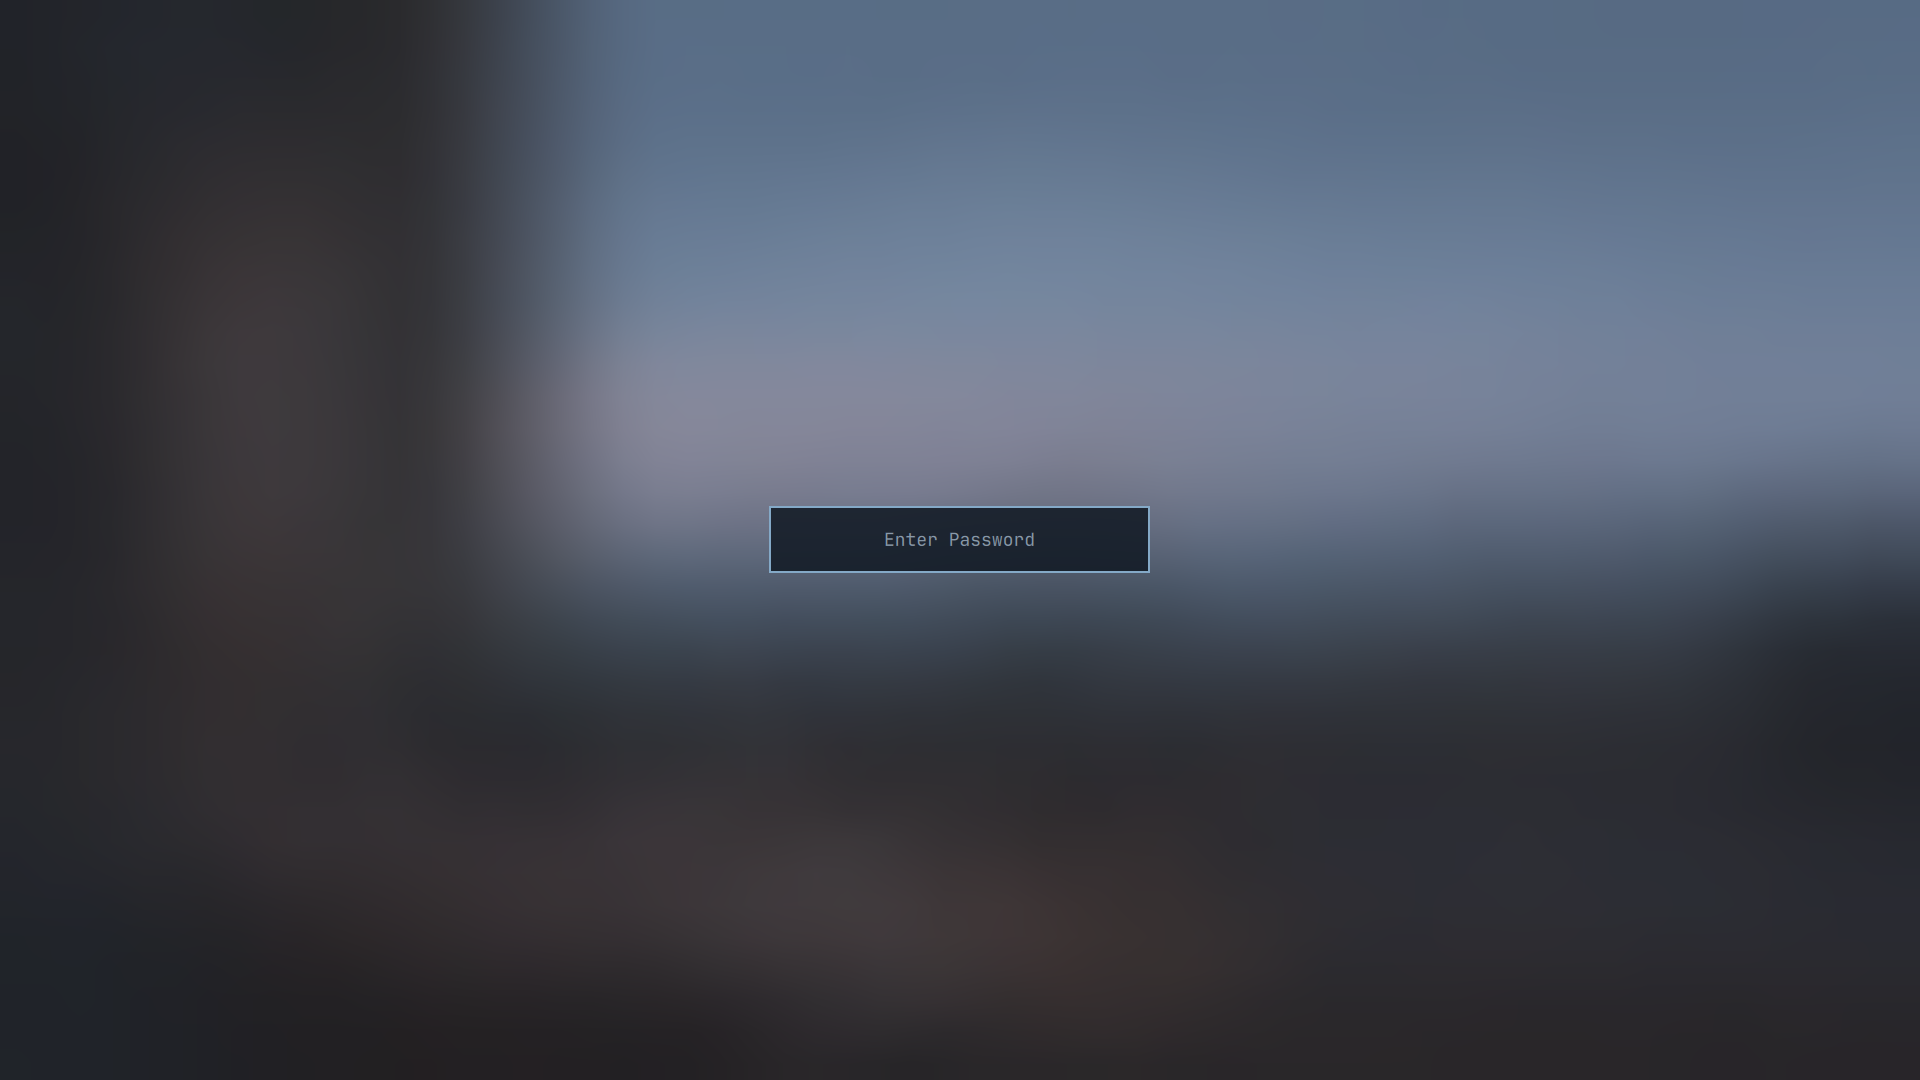
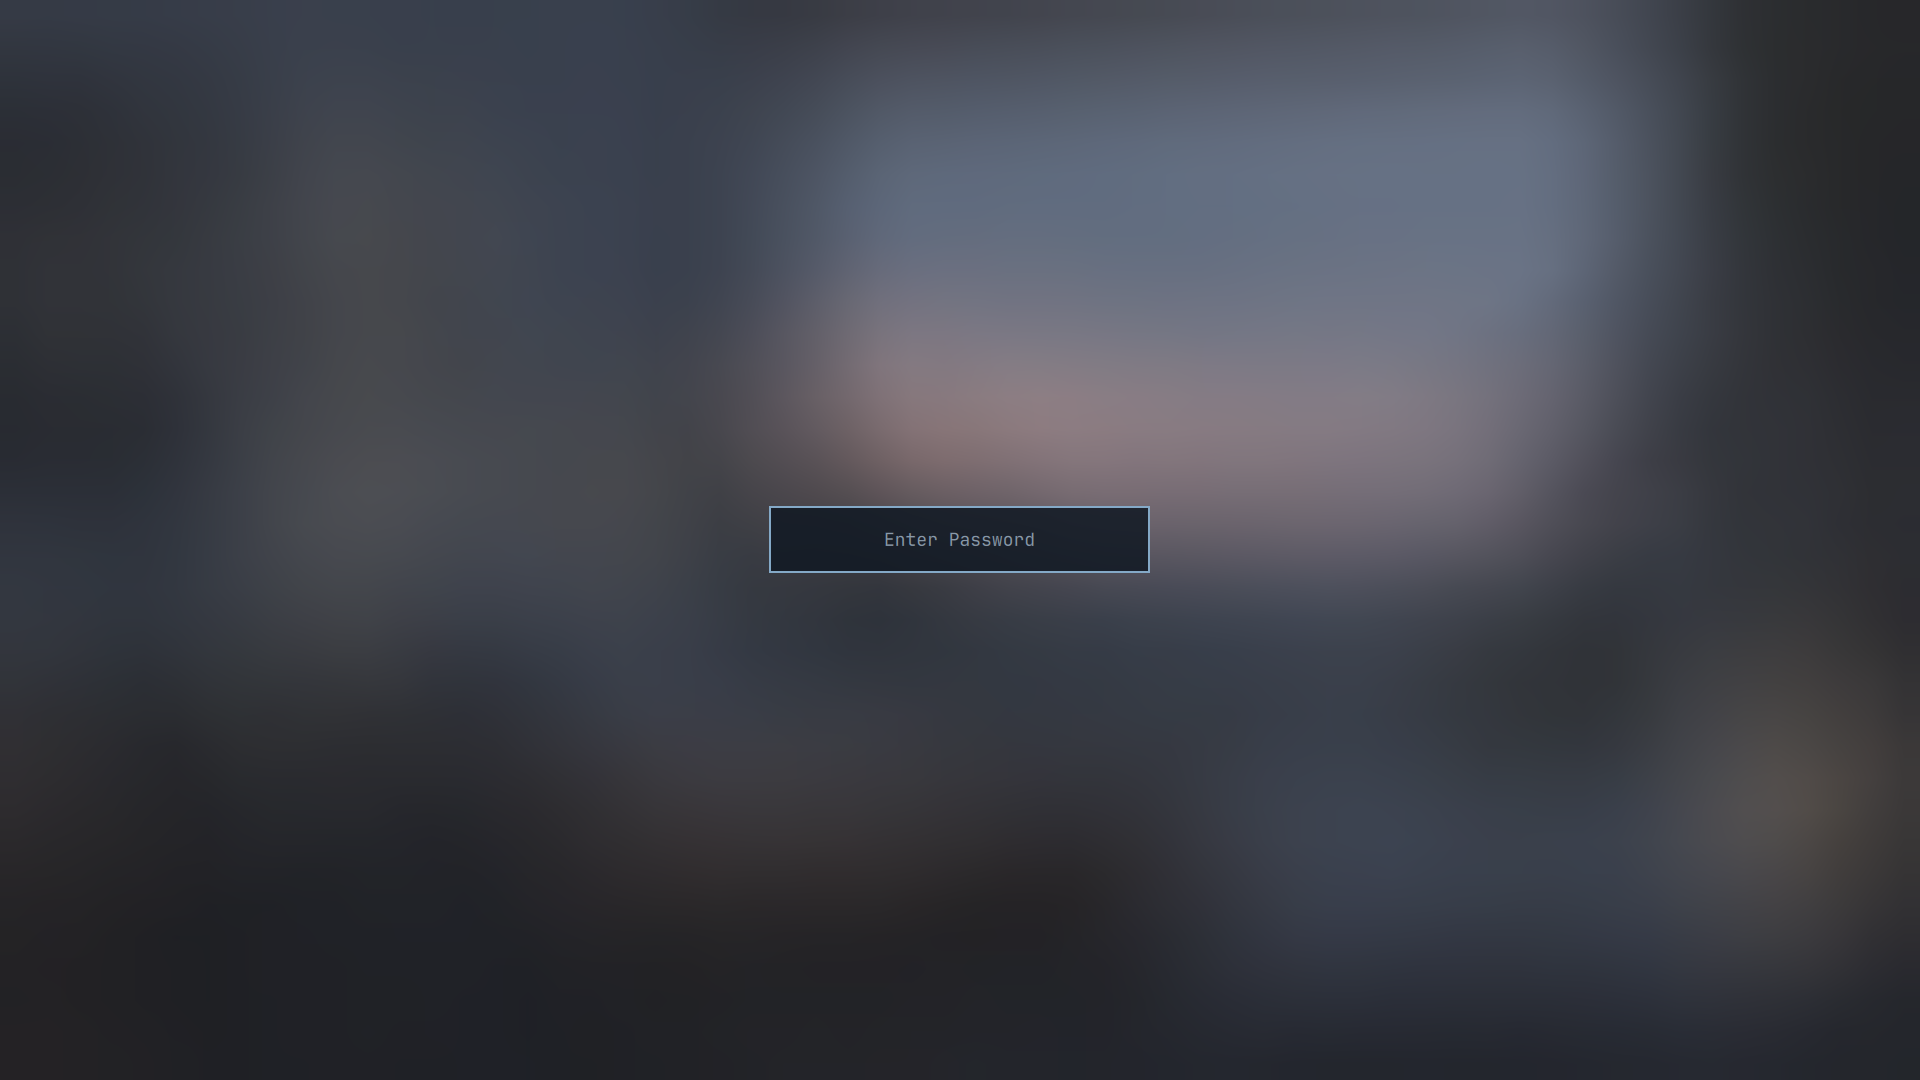
Polish dark project page and real previews

diff --git a/scripts/validate-theme.py b/scripts/validate-theme.py
@@ -18,7 +18,7 @@ REQUIRED_FILES = {
     "zed.json", "cava_theme", "fzf.fish", "steam.css", "vencord.theme.css",
     "bat.conf", "lazygit.yml", "fastfetch.jsonc", "yazi-theme.toml",
     "delta.gitconfig", "INTEGRATIONS.md", "CONTRIBUTING.md", "CHANGELOG.md",
-    "LICENSE", "ATTRIBUTIONS.md", "unlock.png",
+    "LICENSE", "ATTRIBUTIONS.md", "unlock.png", "README.md", "docs/DESIGN.md",
 }
 REQUIRED_SHELL_SECTIONS = {
     "bar", "controls", "spacing", "font", "popups", "tooltip",

diff --git a/README.md b/README.md
@@ -1,63 +1,110 @@
-# Omarchy Ankh Dark
+<p align="center">
+  <img src="unlock.png" width="190" alt="Ankh emblem">
+</p>
 
-Companheiro noturno do [Omarchy Ankh](https://github.com/PedroAugustoOK/omarchy-ankh-theme).
-Azul-marinho profundo, texto marfim frio e azul ardósia criam uma sessão de
-foco serena; os três wallpapers fornecidos preservam a mesma identidade Ankh.
+<h1 align="center">Omarchy Ankh Dark</h1>
 
-![Desktop Ankh Dark — captura real do Omarchy](preview.png)
+<p align="center">
+  A calm, high-contrast dark theme for <strong>Omarchy v4</strong>.<br>
+  Deep navy, cool ivory, restrained slate blue, and three supplied wallpapers.
+</p>
 
-![Lockscreen Ankh Dark — captura real do Omarchy](preview-unlock.png)
+<p align="center">
+  <a href="https://github.com/PedroAugustoOK/omarchy-ankh-dark-theme/releases/tag/v1.0.0"><img src="https://img.shields.io/github/v/release/PedroAugustoOK/omarchy-ankh-dark-theme?display_name=tag&style=flat-square" alt="Latest release"></a>
+  <a href="https://github.com/PedroAugustoOK/omarchy-ankh-dark-theme/actions/workflows/validate.yml"><img src="https://github.com/PedroAugustoOK/omarchy-ankh-dark-theme/actions/workflows/validate.yml/badge.svg" alt="Validation status"></a>
+  <a href="LICENSE"><img src="https://img.shields.io/github/license/PedroAugustoOK/omarchy-ankh-dark-theme?style=flat-square" alt="MIT license"></a>
+</p>
 
-## Instalação
+<p align="center">
+  <a href="#install">Install</a> ·
+  <a href="#gallery">Gallery</a> ·
+  <a href="#whats-included">Included</a> ·
+  <a href="INTEGRATIONS.md">Integrations</a> ·
+  <a href="CONTRIBUTING.md">Contribute</a>
+</p>
 
-```bash
+![Omarchy Ankh Dark desktop — real Quickshell menu capture](preview.png)
+
+## A considered dark theme
+
+Ankh Dark is the nocturnal companion to Ankh: deep blue-charcoal surfaces,
+cool-ivory type, and slate-blue focus states. It is built around supplied
+night-study wallpapers, not around generated artwork.
+
+- **Readable by default** — 7:1 minimum contrast for primary text, 4.5:1 for accent and muted text.
+- **A complete shell** — bar, launcher, menus, notifications, polkit, image picker, and lock screen share one surface language.
+- **Safe to install** — works with Omarchy's Git-installed-theme model without shipping executable configuration.
+
+## Install
+
+~~~bash
 omarchy theme install https://github.com/PedroAugustoOK/omarchy-ankh-dark-theme
 omarchy theme set ankh-dark
-```
+~~~
 
-Alterne entre os três wallpapers com `omarchy theme bg next`.
+Cycle the three included wallpapers with <code>omarchy theme bg next</code>.
 
-## O que está incluído
+> Prefer daylight? See [Omarchy Ankh](https://github.com/PedroAugustoOK/omarchy-ankh-theme).
 
-- Paleta `colors.toml` com contraste mínimo de 7:1 para texto principal.
-- `shell.toml` completo para barra, controles, menus, launcher, notificações,
-  polkit, lockscreen e seletor de imagens do Quickshell.
-- Ícones `Yaru-blue`, que conectam visualmente as duas variantes.
-- Integrações com GTK, Walker, Waybar, Mako, SwayOSD, Superfile, Zed, btop,
-  Chromium, Cava, fzf, Steam e Vencord.
-- Complementos opcionais para bat, Lazygit, Fastfetch, Yazi e git-delta em
-  [INTEGRATIONS.md](INTEGRATIONS.md).
+## Gallery
 
-O Omarchy gera automaticamente terminal, Neovim, Helix, VS Code e Obsidian a
-partir de `colors.toml`. Os arquivos opcionais não são copiados sobre suas
-preferências existentes.
+<table>
+  <tr>
+    <td width="50%">
+      <img src="preview.png" alt="Ankh Dark desktop with the Omarchy menu">
+      <sub><strong>Desktop</strong> — real Quickshell menu capture.</sub>
+    </td>
+    <td width="50%">
+      <img src="preview-unlock.png" alt="Ankh Dark lock screen with visible password field">
+      <sub><strong>Lock screen</strong> — actual Omarchy lock preview.</sub>
+    </td>
+  </tr>
+</table>
+
+All previews are real captures from this theme on Omarchy v4. They are never AI
+mockups. The desktop image shows the included Ankh Dark workspace; the lock
+screen shows the password field in its standard position.
+
+## What's included
+
+| Surface | Coverage |
+| --- | --- |
+| **Omarchy** | colors.toml, Quickshell shell.toml, Yaru Blue icons, three 3840×2160 wallpapers |
+| **Desktop** | GTK, Walker, Waybar, Mako, SwayOSD, Superfile, Zed, Chromium |
+| **Terminal & media** | btop, Cava, fzf, Steam, Vencord |
+| **Optional companions** | bat, Lazygit, Fastfetch, Yazi, git-delta — see [INTEGRATIONS.md](INTEGRATIONS.md) |
+
+Omarchy automatically derives terminal, Neovim, Helix, VS Code, and Obsidian
+from colors.toml. Optional companion files are documented separately so they
+never overwrite a person's existing configuration.
 
 ## Wallpapers
 
-Há exatamente três imagens PNG em 3840×2160 (16:9):
+Exactly three PNG wallpapers are included, each at **3840×2160**:
 
-- `01-ankh-study.png` — mesa junto à janela, luz quente e vegetação.
-- `02-ankh-meadow.png` — estudo aberto para campo e vila distante.
-- `03-ankh-window.png` — mesa clara, caderno e laptop junto à janela.
+| File | Scene |
+| --- | --- |
+| 01-ankh-study.png | Desk by a window, warm light, and greenery |
+| 02-ankh-meadow.png | Study opening toward a meadow and distant village |
+| 03-ankh-window.png | Bright desk, notebook, and laptop by the window |
 
-## Desenvolvimento
+Their origin and processing notes live in [ATTRIBUTIONS.md](ATTRIBUTIONS.md).
 
-Valide localmente com:
+## Project quality
 
-```bash
+~~~bash
 python3 scripts/validate-theme.py
-```
+~~~
 
-O teste verifica paleta, contraste, formatos TOML/JSON, referências de cores,
-assets obrigatórios, previews reais e as três imagens em alta resolução.
-Leia [CONTRIBUTING.md](CONTRIBUTING.md) antes de alterar assets e consulte
-[CHANGELOG.md](CHANGELOG.md) para as versões.
+The same validation runs in GitHub Actions. It checks palette semantics,
+contrast, TOML/JSON parsing, color references, required assets, real preview
+dimensions, and the three exact wallpaper dimensions.
 
-Notas de origem dos assets: [ATTRIBUTIONS.md](ATTRIBUTIONS.md).
+- [Design principles](docs/DESIGN.md)
+- [Integration guide](INTEGRATIONS.md)
+- [Contribution guide](CONTRIBUTING.md)
+- [Changelog](CHANGELOG.md)
 
-Para a variante clara, veja
-[Omarchy Ankh](https://github.com/PedroAugustoOK/omarchy-ankh-theme).
-
-## Licença
+## License
 
 [MIT](LICENSE).

diff --git a/docs/DESIGN.md b/docs/DESIGN.md
@@ -1,0 +1,35 @@
+# Ankh Dark design principles
+
+## Intent
+
+Ankh Dark is a nocturnal focus environment. It pairs deep blue-charcoal
+surfaces with cool ivory type and calm slate-blue interaction states, while
+keeping warm semantic colors restrained.
+
+## Surface hierarchy
+
+| Layer | Role |
+| --- | --- |
+| Background | Deep blue-charcoal canvas for calm, low-glare work |
+| Surface | Navy panels for menus, tooltips, and application chrome |
+| Focus | Slate-blue borders and selected states, never bright neon |
+| Text | Cool ivory for comfortable long reading |
+| Signals | Restrained sage, rose, ochre, cyan, and violet semantic colors |
+
+## Light and dark are companions
+
+Ankh and Ankh Dark use the same geometry, icons, semantic color roles, and
+lockscreen treatment. Light is open and editorial; Dark is nocturnal and
+contained. They should feel like the same system at different hours.
+
+## Real imagery only
+
+The theme has exactly three supplied wallpapers. Previews must be captured from
+a running Omarchy session and must show actual UI states. Do not replace them
+with generated scenes or UI mockups.
+
+## Accessibility contract
+
+Primary text must retain at least 7:1 contrast against its background. Accent
+and muted text must retain at least 4.5:1. This is enforced by the validation
+script before publication.

diff --git a/CHANGELOG.md b/CHANGELOG.md
@@ -1,5 +1,13 @@
 # Changelog
 
+## 1.0.1 — 2026-09-17
+
+- Reorganiza a página do projeto com hero, instalação rápida, galeria, mapa de
+  integrações e links de manutenção.
+- Substitui as prévias por capturas reais e demonstrativas do menu Quickshell e
+  da tela de bloqueio do Omarchy v4.
+- Adiciona princípios de design e modelos para bugs, ideias e pull requests.
+
 ## 1.0.0 — 2026-09-17
 
 - Consolida a identidade Ankh Dark: azul-marinho profundo, marfim frio e três

diff --git a/.github/PULL_REQUEST_TEMPLATE.md b/.github/PULL_REQUEST_TEMPLATE.md
@@ -1,0 +1,11 @@
+## Summary
+
+Describe the visual or integration change in one or two sentences.
+
+## Checklist
+
+- [ ] I ran <code>python3 scripts/validate-theme.py</code>.
+- [ ] I preserved exactly three 3840×2160 wallpapers.
+- [ ] New previews are real Omarchy captures, not generated mockups.
+- [ ] I checked contrast when changing palette or shell colors.
+- [ ] I updated both Ankh variants when the change has a visual equivalent.
